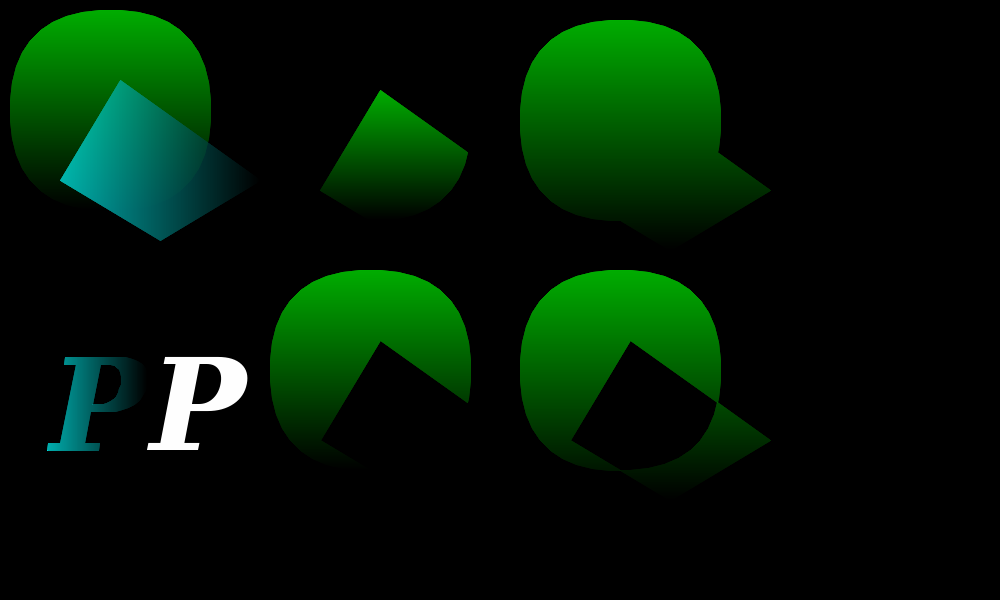
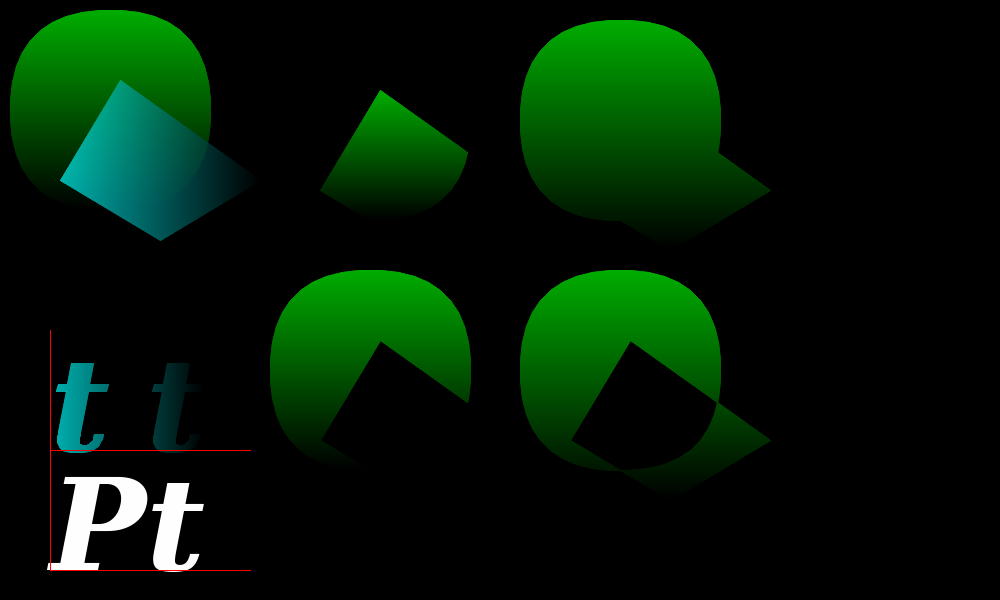
Improving text support in Gfx::Path

Changed region(s): [[0.031, 0.57, 0.248, 0.96]]

diff --git a/src/Pt-Gfx/Path.cpp b/src/Pt-Gfx/Path.cpp
@@ -227,17 +227,17 @@ static inline void generateArcPoints(std::vector<PointF>& dst, double x1, double
     generateQuadraticBezierPoints(dst, xm + cx, ym + cy, x2 + cx, y2 + cy, x2, y2, smoothness);
 }
 
-static inline void generateChrPoints(std::vector<PointF>& dst, double x, double y, const std::vector<Point>& points, const std::vector<Pt::uint8_t>& tags, const std::vector<Pt::int32_t>& contours, double smoothness)
+static inline void generateChrPoints(std::vector<PointF>& dst, double x, double y, const std::vector<PointF>& pointsF_, const std::vector<Pt::uint8_t>& tags, const std::vector<Pt::int32_t>& contours, double smoothness)
 {
     //std::clog << "points/tags = " << points.size() << " ; contours = " << contours.size() << std::endl;
 
-    // Scale the points
-    std::vector<PointF> pointsF(points.size());
+    // Translate the points
+    std::vector<PointF> pointsF(pointsF_.size());
 
-    for(size_t i = 0; i < points.size(); ++i) {
+    for(size_t i = 0; i < pointsF_.size(); ++i) {
         pointsF[i].set(
-            points[i].x() * 0.015625, // (1.0 / 64.0)
-            points[i].y() * 0.015625  // (1.0 / 64.0)
+            x + pointsF_[i].x(),
+            y + pointsF_[i].y()
         );
     }
 
@@ -290,14 +290,14 @@ static inline void generateChrPoints(std::vector<PointF>& dst, double x, double 
             }
             // If point #1 is the only control point, generate a bezier curve
             else if(!isCtl0 && isCtl1 && !isCtl2) {
-                generateQuadraticBezierPoints(dst, x0, y0, x1, y1, x2, y2, smoothness);
+                generateQuadraticBezierPoints(dst, dst.back().x(), dst.back().y(), x1, y1, x2, y2, smoothness);
             }
             // If point #1 and point #2 are both control points, generate a bezier curve
             // using the halfway point between the two control points
             else if(!isCtl0 && isCtl1 && isCtl2) {
                 const double xm = (x1 + x2) * 0.5;
                 const double ym = (y1 + y2) * 0.5;
-                generateQuadraticBezierPoints(dst, x0, y0, x1, y1, xm, ym, smoothness);
+                generateQuadraticBezierPoints(dst, dst.back().x(), dst.back().y(), x1, y1, xm, ym, smoothness);
             }
         }
         // Update the start index of the contour
@@ -738,11 +738,11 @@ void Path::generatePoints(std::vector<PointF>& dst, float smoothness) const
                 break;
 
             case PathData::IT_Char: {
-                std::vector<Point      > points;
+                std::vector<PointF     > pointsF;
                 std::vector<Pt::uint8_t> tags;
                 std::vector<Pt::int32_t> contours;
-                _text->pathFromChar(points, tags, contours, ins.chr);
-                generateChrPoints(dst, curX, curY, points, tags, contours, smoothness);
+                _text->pathFromChar(pointsF, tags, contours, ins.chr);
+                generateChrPoints(dst, curX, curY, pointsF, tags, contours, smoothness);
                 break;
             }
 

diff --git a/src/Pt-Gfx/FreeType2.cpp b/src/Pt-Gfx/FreeType2.cpp
@@ -302,7 +302,7 @@ void FreeType2::getCharSpacing(
 }
 
 void FreeType2::pathFromChar(
-    std::vector<Point>& points, std::vector<Pt::uint8_t>& tags, std::vector<Pt::int32_t>& contours,
+    std::vector<PointF>& points, std::vector<Pt::uint8_t>& tags, std::vector<Pt::int32_t>& contours,
     const Char& chr, FTC_FaceID faceId, FTC_ImageType imageType
 )
 {
@@ -336,11 +336,11 @@ void FreeType2::pathFromChar(
     points.resize(face->glyph->outline.n_points);
     for(int i = 0; i < face->glyph->outline.n_points; ++i) {
         points[i].set(
-             face->glyph->outline.points[i].x,
-            -face->glyph->outline.points[i].y
+             face->glyph->outline.points[i].x * 0.015625, // (1.0 / 64.0)
+            -face->glyph->outline.points[i].y * 0.015625
         );
     }
-
+ 
     tags.resize(face->glyph->outline.n_points);
     for(int i = 0; i < face->glyph->outline.n_points; ++i) {
         tags[i] = face->glyph->outline.tags[i];

diff --git a/src/Pt-Gfx/tests/ImagePainterTest2_Draw_Path.cpp b/src/Pt-Gfx/tests/ImagePainterTest2_Draw_Path.cpp
@@ -369,13 +369,15 @@ static void testDrawPathClipping(const char* title, Image& image, Painter& paint
 
     Pt::int32_t dx, dy;
 
-    path.setFont  ( Pt::Gfx::Font(FONT_SPEC_H) );
-    path.clear    ();
-    path.beginPath();
-    path.moveTo   (100, 100);
-    path.putChar  ('P');
-    path.endPath  ();
-    path.getCharSpacing(dx, dy, 'P', 'T');
+    path.setFont       ( Pt::Gfx::Font(FONT_SPEC_H) );
+    path.clear         ();
+    path.beginPath     ();
+    path.moveTo        (0, 0);
+    path.putChar       ('P');
+    path.getCharSpacing(dx, dy, 'P', 't');
+    path.relMoveTo     (dx, dy);
+    path.putChar       ('t');
+    path.endPath       ();
 
     subjPointsF.clear();
     path.generatePoints(subjPointsF, 1);

diff --git a/src/Pt-Gfx/DrawText2.h b/src/Pt-Gfx/DrawText2.h
@@ -55,7 +55,7 @@ class DrawText2 {
         void drawMono(Image& image, const Color& color, const Point& pos, const String& text, const CompositionMode& mode);
 
         void getCharSpacing(Pt::int32_t& x, Pt::int32_t& y, const Char& from, const Char& to);
-        void pathFromChar(std::vector<Point>& points, std::vector<Pt::uint8_t>& tags, std::vector<Pt::int32_t>& contours, const Char& chr);
+        void pathFromChar(std::vector<PointF>& points, std::vector<Pt::uint8_t>& tags, std::vector<Pt::int32_t>& contours, const Char& chr);
 
     private:
         void drawGlyph(Image& image, const Color& color, int xpos, int ypos, int bmPitch, int height, int width, const unsigned char* buffer);

diff --git a/src/Pt-Gfx/DrawText2.cpp b/src/Pt-Gfx/DrawText2.cpp
@@ -105,7 +105,7 @@ void DrawText2::getCharSpacing(Pt::int32_t& x, Pt::int32_t& y, const Char& from,
     FreeType2::instance().getCharSpacing(x, y, from, to, _faceId, &_imageType);
 }
 
-void DrawText2::pathFromChar(std::vector<Point>& points, std::vector<Pt::uint8_t>& tags, std::vector<Pt::int32_t>& contours, const Char& chr)
+void DrawText2::pathFromChar(std::vector<PointF>& points, std::vector<Pt::uint8_t>& tags, std::vector<Pt::int32_t>& contours, const Char& chr)
 {
     FreeType2::instance().pathFromChar(points, tags, contours, chr, _faceId, &_imageType);
 }

diff --git a/src/Pt-Gfx/FreeType2.h b/src/Pt-Gfx/FreeType2.h
@@ -84,7 +84,7 @@ class FreeType2 : public Pt::Singleton<FreeType2> {
         );
 
         void pathFromChar(
-            std::vector<Point>& points, std::vector<Pt::uint8_t>& tags, std::vector<Pt::int32_t>& contours,
+            std::vector<PointF>& points, std::vector<Pt::uint8_t>& tags, std::vector<Pt::int32_t>& contours,
             const Char& chr, FTC_FaceID faceId, FTC_ImageType imageType
         );
 
